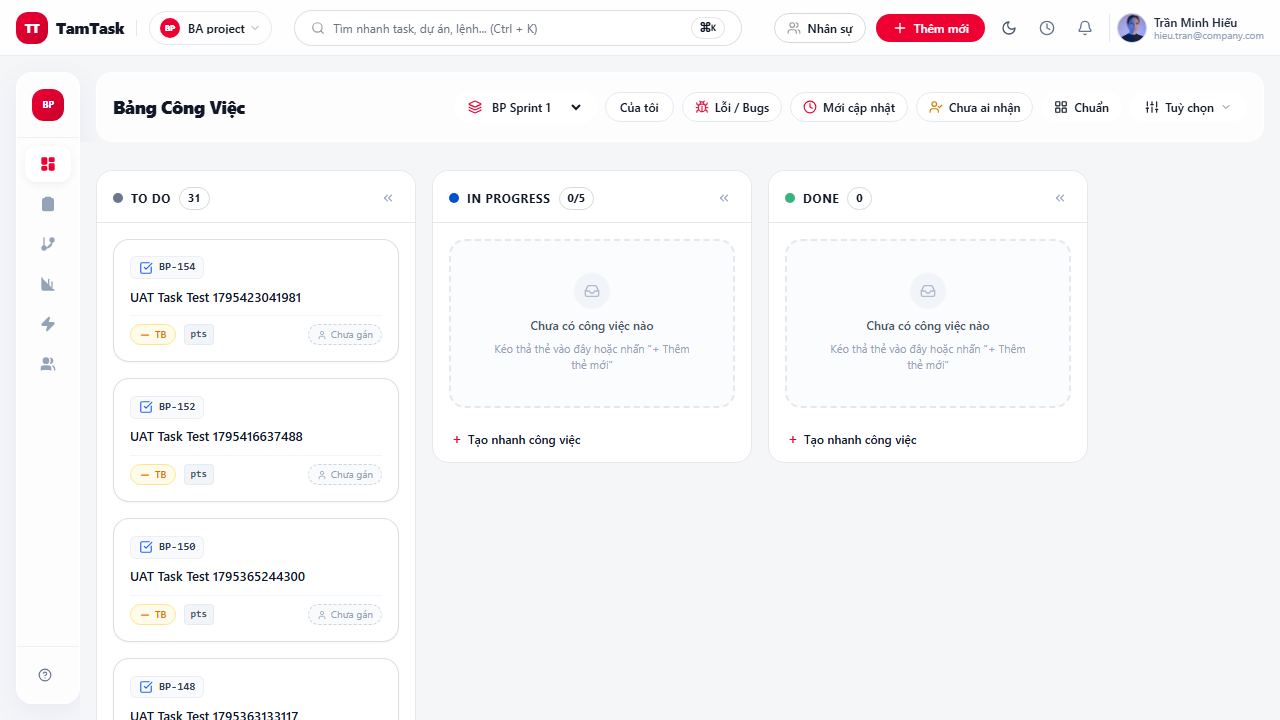
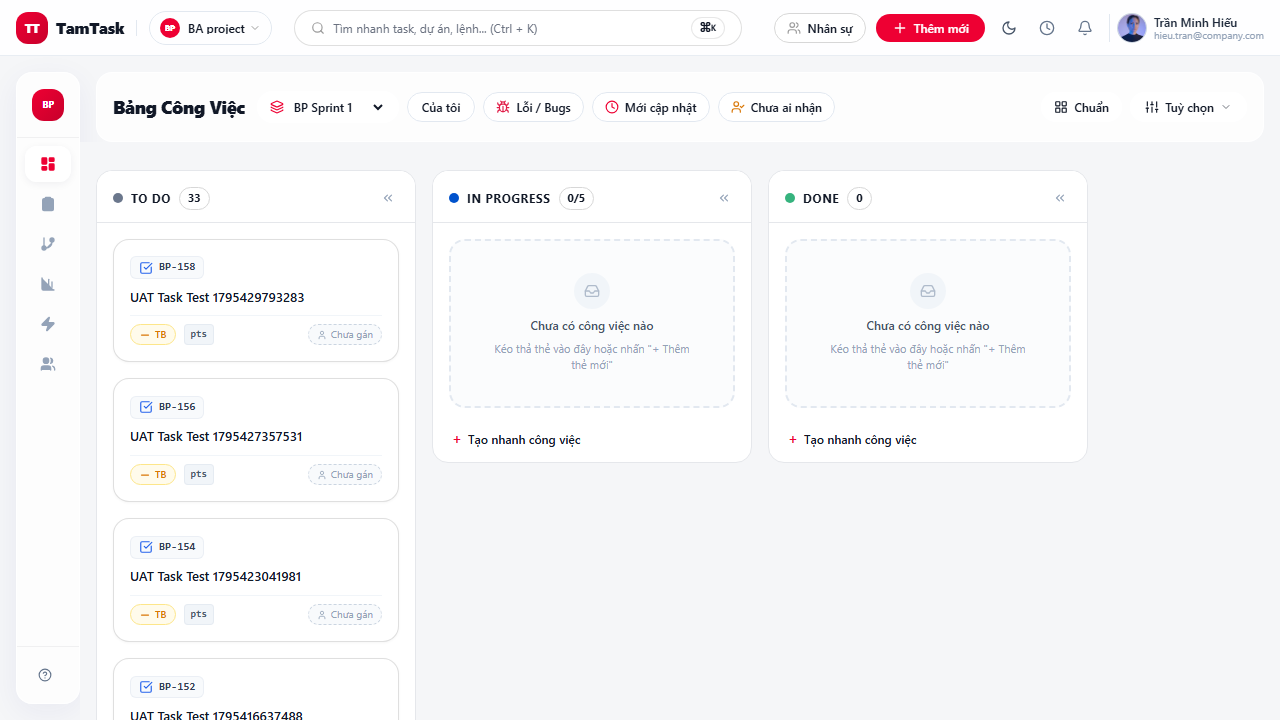
fix(kanban): isolate island header controls from filter scroll and optimize key generation

diff --git a/src/components/jira/KanbanBoard.tsx b/src/components/jira/KanbanBoard.tsx
@@ -76,6 +76,7 @@ export const KanbanBoard: React.FC<KanbanBoardProps> = ({
   const [isScrolledHeader, setIsScrolledHeader] = useState(false);
   const [mobileActiveColumn, setMobileActiveColumn] = useState<string>("ALL");
   const moreFiltersRef = React.useRef<HTMLDivElement>(null);
+  const assigneeOverflowRef = React.useRef<HTMLDivElement>(null);
 
   // Mobile horizontal touch swipe gestures to navigate columns smoothly
   const touchStartX = React.useRef<number | null>(null);
@@ -176,11 +177,14 @@ export const KanbanBoard: React.FC<KanbanBoardProps> = ({
     }
   };
 
-  // Close more filters on click outside
+  // Close more filters & assignee overflow on click outside
   React.useEffect(() => {
     const handleClickOutside = (e: MouseEvent) => {
       if (moreFiltersRef.current && !moreFiltersRef.current.contains(e.target as Node)) {
         setShowMoreFilters(false);
+      }
+      if (assigneeOverflowRef.current && !assigneeOverflowRef.current.contains(e.target as Node)) {
+        setShowAssigneeOverflow(false);
       }
     };
     document.addEventListener("mousedown", handleClickOutside);
@@ -748,11 +752,11 @@ export const KanbanBoard: React.FC<KanbanBoardProps> = ({
       <div
         className={`hidden md:block relative z-20 transition-all duration-300 ease-in-out shrink-0 overflow-visible ${
           isScrolledHeader
-            ? "max-h-0 opacity-0 -translate-y-4 mb-0 pointer-events-none"
-            : "max-h-60 opacity-100 translate-y-0 m-4 mb-0"
+            ? "max-h-0 opacity-0 -translate-y-4 mb-0 pointer-events-none overflow-hidden"
+            : "opacity-100 translate-y-0 m-4 mb-0"
         }`}
       >
-        <div className="p-4 rounded-2xl bg-white/75 dark:bg-zinc-900/75 backdrop-blur-xl border border-white/80 dark:border-white/10 shadow-xs flex items-center justify-between gap-4">
+        <div className="p-4 rounded-2xl bg-white/75 dark:bg-zinc-900/75 backdrop-blur-xl border border-white/80 dark:border-white/10 shadow-xs flex items-center justify-between gap-3 overflow-visible">
           {/* Left on desktop: Title */}
           <div className="flex items-center space-x-3 shrink-0">
             <h1 className="text-lg font-extrabold text-[#111827] dark:text-zinc-100 tracking-tight">
@@ -760,8 +764,8 @@ export const KanbanBoard: React.FC<KanbanBoardProps> = ({
             </h1>
           </div>
 
-          {/* Center / Right: Streamlined Filters & Actions */}
-          <div className="flex items-center gap-2 max-w-full overflow-x-auto no-scrollbar py-0.5">
+          {/* Center: Streamlined Filter Pills (Scrollable, NO popovers inside) */}
+          <div className="flex-1 min-w-0 flex items-center gap-2 overflow-x-auto no-scrollbar py-0.5">
             {/* Desktop Sprint Selector */}
             <div className="hidden md:flex items-center gap-1.5 bg-white/80 dark:bg-zinc-800/80 backdrop-blur-md border border-white/80 dark:border-zinc-700/80 rounded-full px-3 py-1.5 text-xs shadow-2xs shrink-0">
               <Layers className="w-3.5 h-3.5 text-[#EE0033] shrink-0" />
@@ -858,7 +862,7 @@ export const KanbanBoard: React.FC<KanbanBoardProps> = ({
                 })}
 
                 {overflowUsers.length > 0 && (
-                  <div className="relative shrink-0">
+                  <div className="relative shrink-0" ref={assigneeOverflowRef}>
                     <button
                       type="button"
                       onClick={() => setShowAssigneeOverflow(!showAssigneeOverflow)}
@@ -903,7 +907,10 @@ export const KanbanBoard: React.FC<KanbanBoardProps> = ({
             {assignedUsers.length > 0 && (
               <div className="h-4 w-px bg-slate-200 dark:bg-zinc-800 mx-1 shrink-0" />
             )}
+          </div>
 
+          {/* Right: Fixed Action Controls & Popover (NEVER inside overflow-x-auto!) */}
+          <div className="flex items-center gap-2 shrink-0 relative">
             {/* Display Density Switcher */}
             <button
               type="button"
@@ -945,7 +952,7 @@ export const KanbanBoard: React.FC<KanbanBoardProps> = ({
             </button>
 
             {showMoreFilters && (
-              <div className="absolute right-0 mt-2 w-72 bg-white/95 dark:bg-zinc-900/95 backdrop-blur-xl border border-white/80 dark:border-zinc-800 rounded-2xl shadow-2xl p-4 z-50 animate-in fade-in zoom-in-95 space-y-4">
+              <div className="absolute right-0 top-full mt-2 w-72 bg-white/95 dark:bg-zinc-900/95 backdrop-blur-xl border border-slate-200 dark:border-zinc-800 rounded-2xl shadow-2xl p-4 z-50 animate-in fade-in zoom-in-95 space-y-4">
                 {/* Swimlane Options */}
                 <div>
                   <div className="text-[11px] font-bold text-slate-400 dark:text-zinc-500 uppercase tracking-wider mb-2">

diff --git a/src/app/api/issues/route.ts b/src/app/api/issues/route.ts
@@ -98,15 +98,22 @@ export async function POST(request: Request) {
       }
     }
 
-    // 2. Generate unique key safely (guaranteeing no unique key collision)
-    let count = await prisma.issue.count({
-      where: projectId ? { projectId } : undefined,
+    // 2. Generate unique key safely (one-query max calculation)
+    const existingIssues = await prisma.issue.findMany({
+      where: { key: { startsWith: `${projectKey}-` } },
+      select: { key: true },
     });
-    let key = `${projectKey}-${101 + count}`;
-    while (await prisma.issue.findUnique({ where: { key } })) {
-      count++;
-      key = `${projectKey}-${101 + count}`;
+    let maxNum = 100;
+    for (const item of existingIssues) {
+      const match = item.key.match(/-(\d+)$/);
+      if (match) {
+        const num = parseInt(match[1], 10);
+        if (!isNaN(num) && num > maxNum) {
+          maxNum = num;
+        }
+      }
     }
+    const key = `${projectKey}-${maxNum + 1}`;
 
     // 3. Resolve valid Reporter (prioritize logged-in session user to prevent foreign-key failure)
     let reporterId: string | null = null;

diff --git a/tests/uat.spec.ts b/tests/uat.spec.ts
@@ -192,7 +192,8 @@ test.describe("TamTask Agile Hub - UAT Automation Test Suite (Plan.md)", () => {
 
     // Bấm Tạo Công Việc
     await page.click("button[type='submit']:has-text('Tạo Công Việc')");
-    await page.waitForTimeout(2500);
+    await page.waitForSelector("h3:has-text('Tạo Công Việc')", { state: "hidden", timeout: 15000 });
+    await page.waitForTimeout(1000);
 
     await page.screenshot({
       path: path.join(SCREENSHOT_DIR, "TC04_CreateIssue_Submitted_PASS.png"),
@@ -200,7 +201,7 @@ test.describe("TamTask Agile Hub - UAT Automation Test Suite (Plan.md)", () => {
     });
 
     // Xác nhận task xuất hiện trên màn hình
-    await expect(page.locator(`text=${testTitle}`).first()).toBeVisible();
+    await expect(page.locator(`text=${testTitle}`).first()).toBeVisible({ timeout: 15000 });
   });
 
   // TC05: Kế hoạch Chu kỳ & Hàng đợi Backlog
